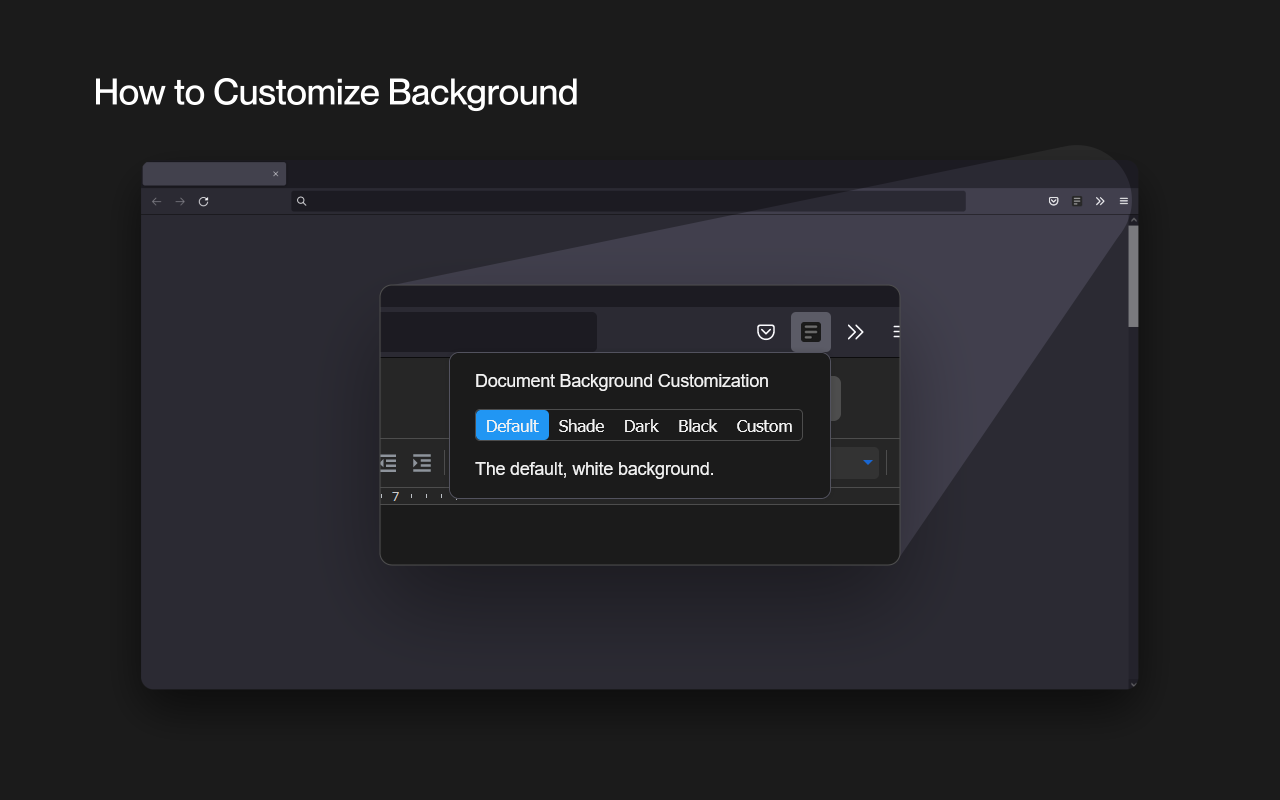
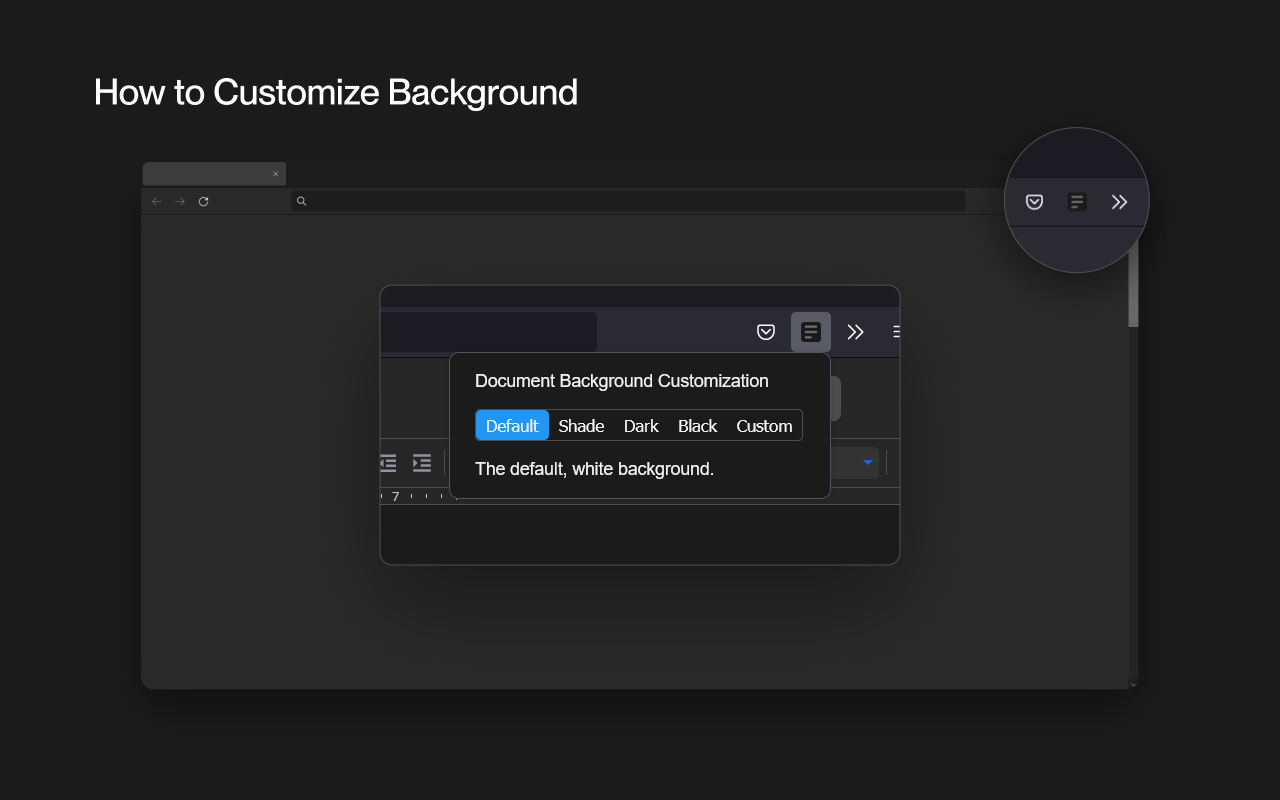
update customization_menu.png and clean build.js

Changed region(s): [[0.3125, 0.1875, 0.9062, 0.6875]]

diff --git a/build.js b/build.js
@@ -1,7 +1,6 @@
 const start_time = new Date();
 const fs = require('fs-extra');
-const { exec, spawn } = require("child_process");
-const { start } = require("repl");
+const { exec } = require("child_process");
 
 const chrome_manifest = JSON.parse(fs.readFileSync("./src/chrome/manifest.json").toString());
 
